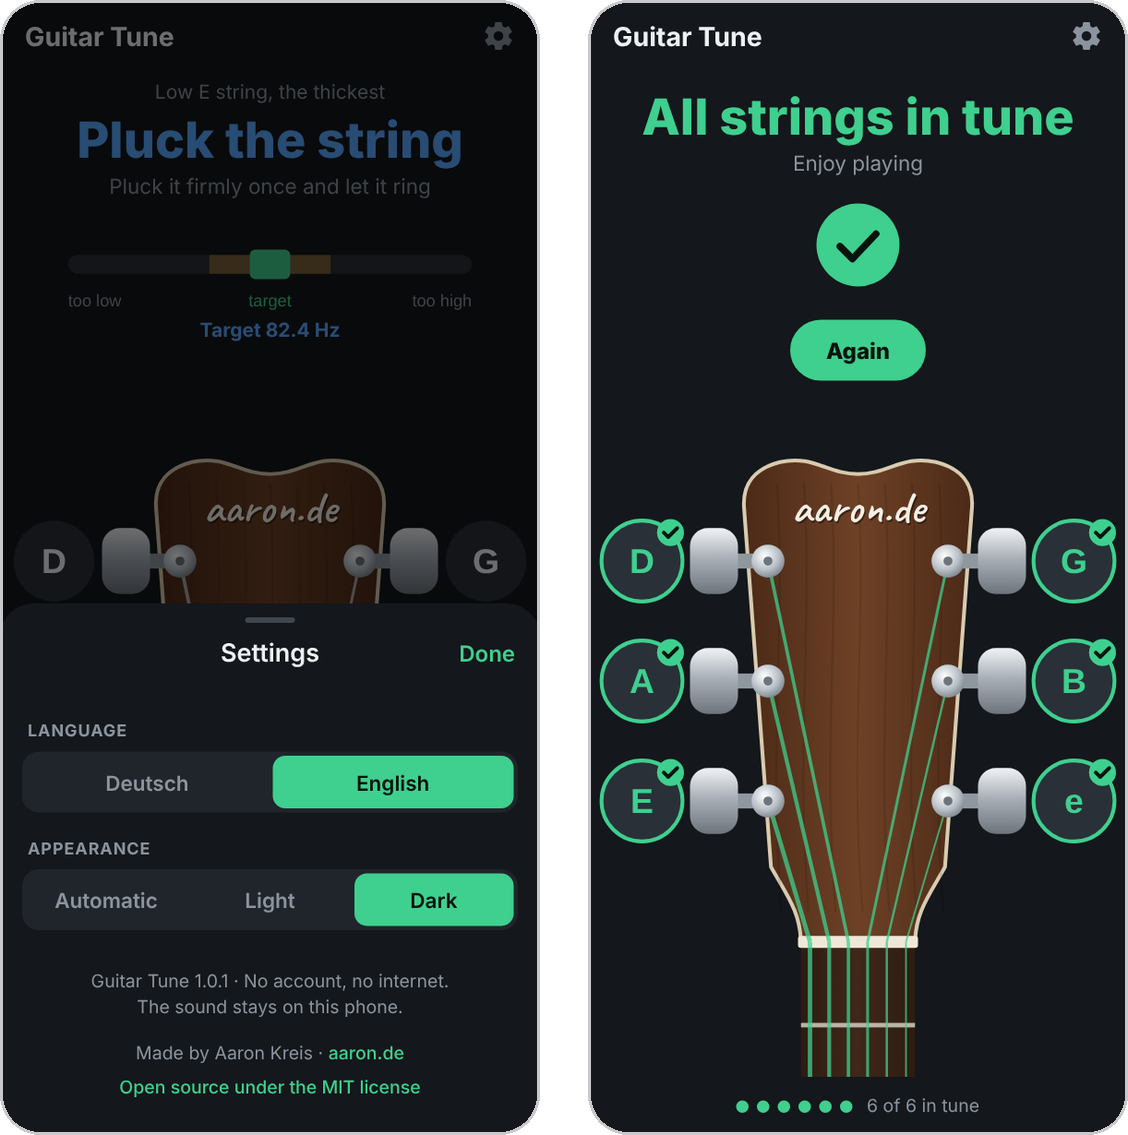
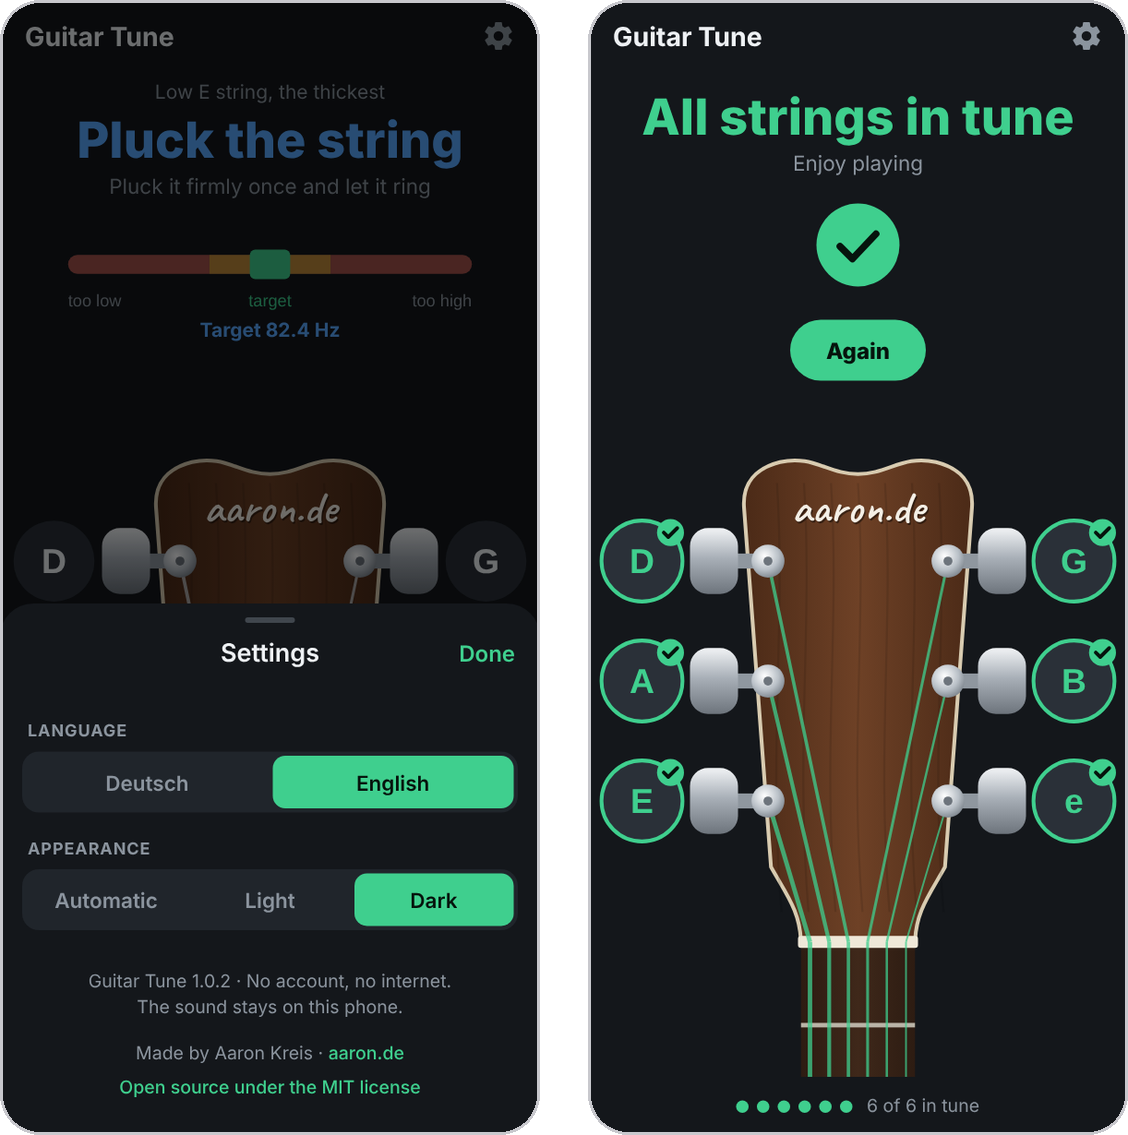
Tuning bar: light red outer zones on both sides (1.0.2)
The bar now shows the same colour code as the big word and the pointer:
light red more than 15 cents off on both sides, orange from 6 to 15 cents,
green within 5 cents. Before, the outer parts were grey, so red looked like
"too low" and yellow like "too high".

- New farBand colour for dark and light mode, stronger orange band
- README banner and screenshots updated
- Version 1.0.2 (versionCode 3)

diff --git a/src/ui/theme.ts b/src/ui/theme.ts
@@ -24,6 +24,8 @@ export interface Palette {
   onZone: string
   /** Gelber Bereich neben dem Ziel im Balken */
   nearBand: string
+  /** Hellroter Bereich außen im Balken (weit daneben) */
+  farBand: string
 }
 
 export const dark: Palette = {
@@ -41,7 +43,8 @@ export const dark: Palette = {
   ripple: 'rgba(255,255,255,0.1)',
   zone: { wait: '#5aa9ff', far: '#ff6b5b', near: '#f2a93b', ok: '#3fcf8e' },
   onZone: '#141008',
-  nearBand: 'rgba(242,169,59,0.4)',
+  nearBand: 'rgba(242,169,59,0.75)',
+  farBand: 'rgba(255,107,91,0.58)',
 }
 
 export const light: Palette = {
@@ -59,7 +62,8 @@ export const light: Palette = {
   ripple: 'rgba(0,0,0,0.08)',
   zone: { wait: '#2f7fe0', far: '#e0483a', near: '#d9820f', ok: '#15a46a' },
   onZone: '#ffffff',
-  nearBand: 'rgba(217,130,15,0.35)',
+  nearBand: 'rgba(217,130,15,0.55)',
+  farBand: 'rgba(224,72,58,0.38)',
 }
 
 export const ThemeContext = createContext<Palette>(dark)

diff --git a/src/ui/TuneBar.tsx b/src/ui/TuneBar.tsx
@@ -22,6 +22,8 @@ export function TuneBar({ cents, color }: { cents: number | null; color: string 
   return (
     <Svg width="100%" height={74} viewBox="0 0 360 74">
       <Rect x={30} y={30} width={300} height={14} rx={7} fill={c.surface} />
+      <Rect x={30} y={30} width={300} height={14} rx={7} fill={c.farBand} />
+      <Rect x={x(-15)} y={30} width={x(15) - x(-15)} height={14} fill={c.surface} />
       <Rect x={x(-15)} y={30} width={x(15) - x(-15)} height={14} fill={c.nearBand} />
       <Rect x={x(-5)} y={26} width={x(5) - x(-5)} height={22} rx={4} fill={c.zone.ok} />
       <SvgText x={30} y={68} fontFamily="sans-serif" fontSize={12.5} fill={c.text2}>

diff --git a/PLAN.md b/PLAN.md
@@ -1,6 +1,6 @@
 # Guitar Tune: Plan
 
-Stand 06.11.2026: Version 1.0.1 gebaut (apk/GuitarTune-1.0.1.apk), neues Icon: flaches weisses Plektrum auf rotem Grund ("Schlicht, gross"). Version 1.0.0 mit dem alten Icon (Kopfplatte). Oberflaeche Variante E mit Schriftzug 6h (Caveat), Tonerkennung nach research/Recherche_Tonerkennung.md. Auf Aarons Handy mit seiner Gitarre geprueft: alle sechs Saiten gestimmt, Gegenprobe mit der App GuitarTuna ergab ebenfalls "stimmt".
+Stand 07.11.2026: Version 1.0.2 gebaut (apk/GuitarTune-1.0.2.apk): Balken aussen hellrot, daneben orange, Mitte gruen. Version 1.0.1: neues Icon: flaches weisses Plektrum auf rotem Grund ("Schlicht, gross"). Version 1.0.0 mit dem alten Icon (Kopfplatte). Oberflaeche Variante E mit Schriftzug 6h (Caveat), Tonerkennung nach research/Recherche_Tonerkennung.md. Auf Aarons Handy mit seiner Gitarre geprueft: alle sechs Saiten gestimmt, Gegenprobe mit der App GuitarTuna ergab ebenfalls "stimmt".
 
 ## Entscheidungen
 - Name: Guitar Tune, Paket de.aaron.guitartune
